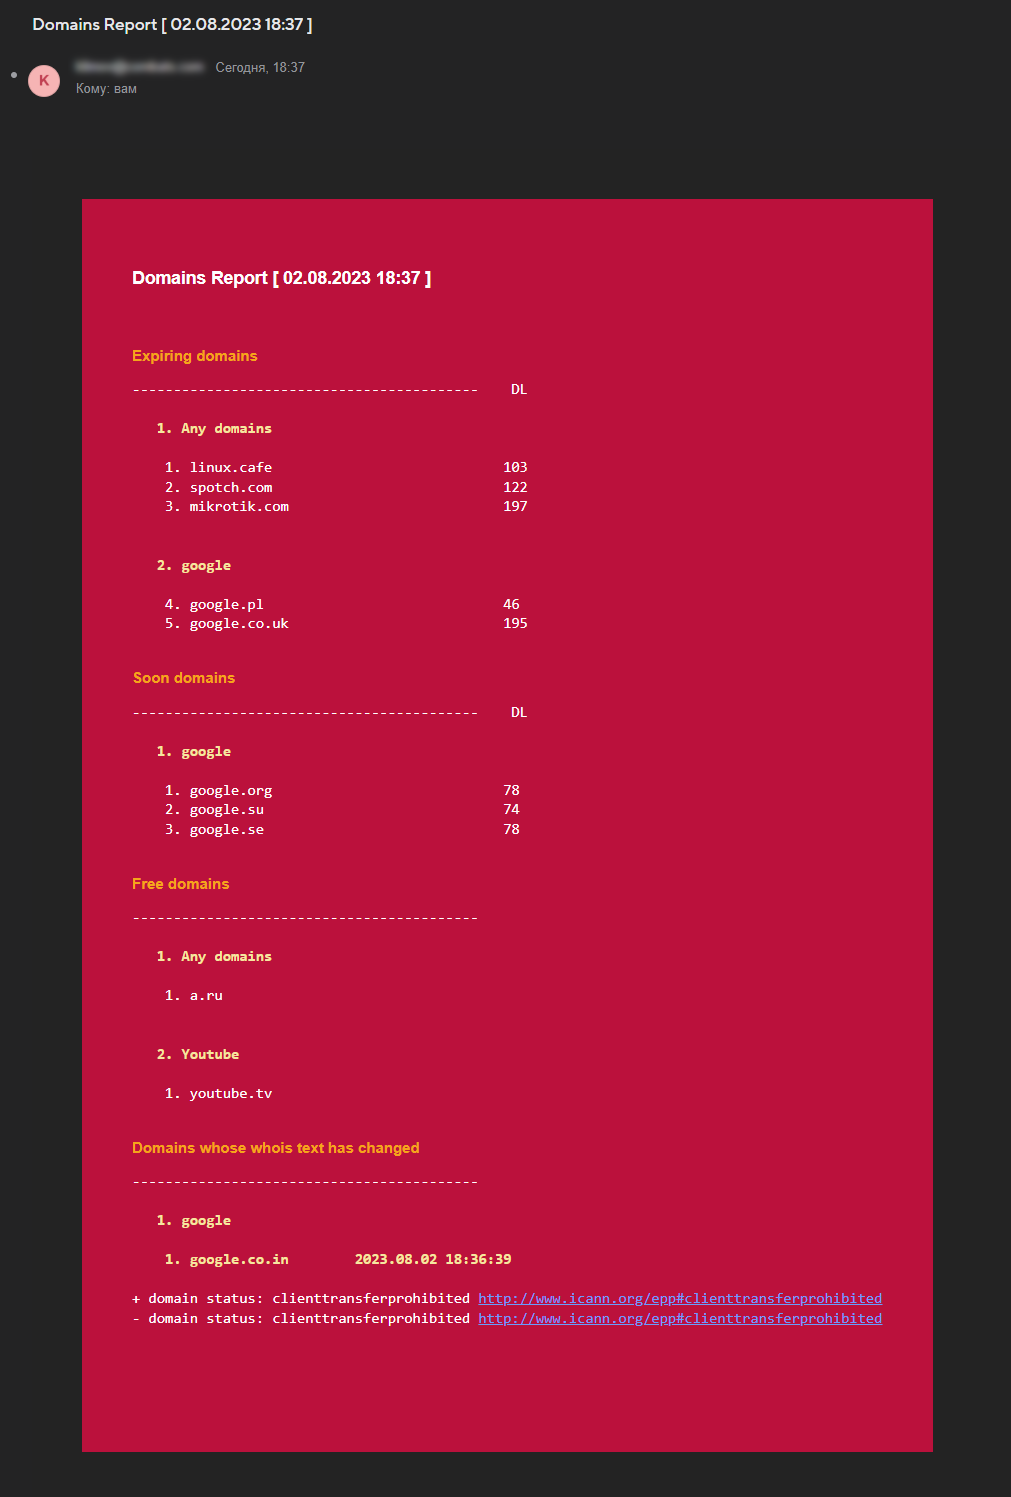
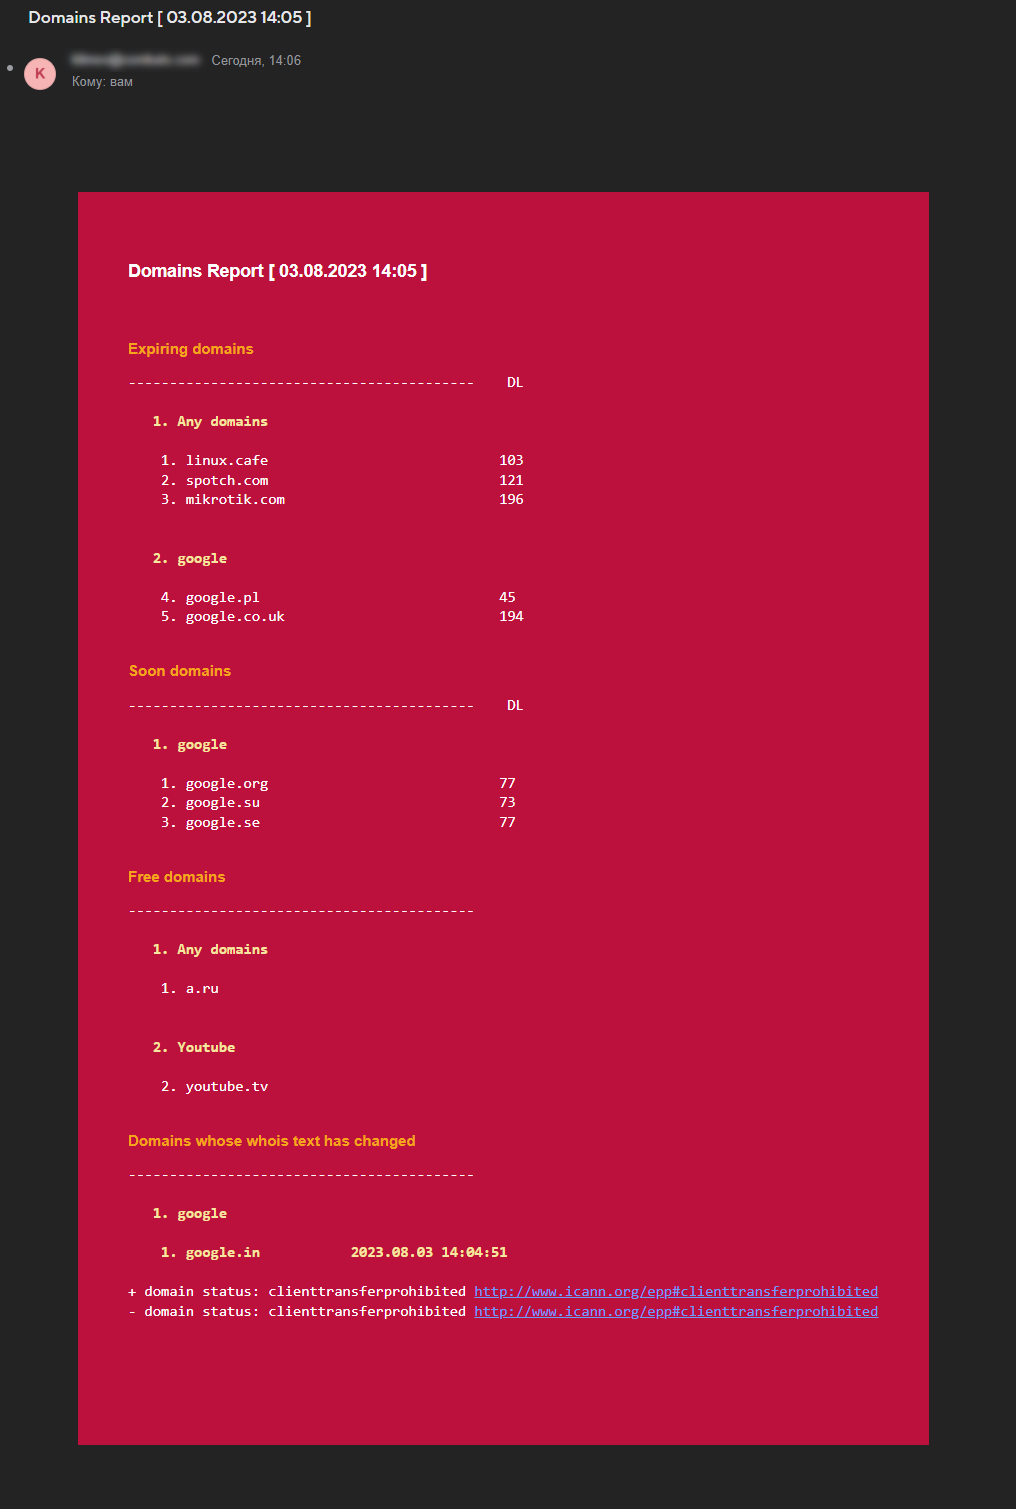
New version 0.2.19 (Fixed numbering in reports)

diff --git a/ddec.py b/ddec.py
@@ -14,9 +14,9 @@
 # Leif (https://github.com/akhepcat)
 # woodholly (https://github.com/woodholly)
 #
-# Current Version: 0.2.18
+# Current Version: 0.2.19
 # Creation Date: 2019-07-05
-# Date of last changes: 2023-08-02
+# Date of last changes: 2023-08-03
 #
 # License:
 #  This program is free software; you can redistribute it and/or modify
@@ -84,7 +84,7 @@ if sys.version_info < (3, 6):
     sys.exit(-1)
 
 # Global constants
-__version__: str = '0.2.18'
+__version__: str = '0.2.19'
 
 FR: str = Fore.RESET
 
@@ -804,13 +804,15 @@ def make_report_for_telegram() -> None:
         message += '\n\n<b>Domains that caused errors</b><pre>'
         message += f'\n{hl}\n'
         group_i: int = 0
+        i: int = 0
         for group, list_of_domains in ERRORS_DOMAIN.items():
             group_i += 1
             s_g_cr: str = '\n' if group_i > 1 else ''
             if group != '/':
                 str_domain_item: str = f'\n{s_g_cr}{group_i:>4}. {group}\n\n'
                 message += str_domain_item
-            for i, domain in enumerate(list_of_domains, 1):
+            for domain in list_of_domains:
+                i += 1
                 dn: str = f'{domain:<37}'
                 str_domain_item: str = f'{i:>5}. {dn}\n'
                 message += str_domain_item
@@ -821,13 +823,15 @@ def make_report_for_telegram() -> None:
         message += '\n\n<b>Exceeded the limit on whois</b><pre>'
         message += f'\n{hl}\n'
         group_i: int = 0
+        i: int = 0
         for group, list_of_domains in ERRORS2_DOMAIN.items():
             group_i += 1
             s_g_cr: str = '\n' if group_i > 1 else ''
             if group != '/':
                 str_domain_item: str = f'\n{s_g_cr}{group_i:>4}. {group}\n\n'
                 message += str_domain_item
-            for i, domain in enumerate(list_of_domains, 1):
+            for domain in list_of_domains:
+                i += 1
                 dn: str = f'{domain:<37}'
                 str_domain_item: str = f'{i:>5}. {dn}\n'
                 message += str_domain_item
@@ -838,13 +842,15 @@ def make_report_for_telegram() -> None:
         message += '\n\n<b>Free domains</b><pre>'
         message += f'\n{hl}\n'
         group_i: int = 0
+        i: int = 0
         for group, list_of_domains in FREE_DOMAINS.items():
             group_i += 1
             s_g_cr: str = '\n' if group_i > 1 else ''
             if group != '/':
                 str_domain_item: str = f'\n{s_g_cr}{group_i:>4}. {group}\n\n'
                 message += str_domain_item
-            for i, domain in enumerate(list_of_domains, 1):
+            for domain in list_of_domains:
+                i += 1
                 dn: str = f'{domain:<37}'
                 str_domain_item: str = f'{i:>5}. {dn}\n'
                 message += str_domain_item
@@ -1124,13 +1130,15 @@ def make_report_for_email() -> None:
             domain_list += '\nDomains that caused errors\n\n'
             domain_list += f'{hl}\n'
             group_i: int = 0
+            i: int = 0
             for group, list_of_domains in ERRORS_DOMAIN.items():
                 group_i += 1
                 s_g_cr: str = '\n' if group_i > 1 else ''
                 if group != '/':
                     str_domain_item: str = f'\n{s_g_cr}{group_i:>4}. {group}\n\n'
                     domain_list += str_domain_item
-                for i, domain in enumerate(list_of_domains, 1):
+                for domain in list_of_domains:
+                    i += 1
                     dn: str = f'{domain:<37}'
                     str_domain_item: str = f'{i:>5}. {dn}\n'
                     domain_list += str_domain_item
@@ -1140,13 +1148,15 @@ def make_report_for_email() -> None:
             domain_list += '\nExceeded the limit on whois\n\n'
             domain_list += f'{hl}\n'
             group_i: int = 0
+            i: int = 0
             for group, list_of_domains in ERRORS2_DOMAIN.items():
                 group_i += 1
                 s_g_cr: str = '\n' if group_i > 1 else ''
                 if group != '/':
                     str_domain_item: str = f'\n{s_g_cr}{group_i:>4}. {group}\n\n'
                     domain_list += str_domain_item
-                for i, domain in enumerate(list_of_domains, 1):
+                for domain in list_of_domains:
+                    i += 1
                     dn: str = f'{domain:<37}'
                     str_domain_item: str = f'{i:>5}. {dn}\n'
                     domain_list += str_domain_item
@@ -1156,13 +1166,15 @@ def make_report_for_email() -> None:
             domain_list += '\nFree domains\n\n'
             domain_list += f'{hl}\n'
             group_i: int = 0
+            i: int = 0
             for group, list_of_domains in FREE_DOMAINS.items():
                 group_i += 1
                 s_g_cr: str = '\n' if group_i > 1 else ''
                 if group != '/':
                     str_domain_item: str = f'\n{s_g_cr}{group_i:>4}. {group}\n\n'
                     domain_list += str_domain_item
-                for i, domain in enumerate(list_of_domains, 1):
+                for domain in list_of_domains:
+                    i += 1
                     dn: str = f'{domain:<37}'
                     str_domain_item: str = f'{i:>5}. {dn}\n'
                     domain_list += str_domain_item
@@ -1285,6 +1297,7 @@ def make_report_for_email() -> None:
             )
             domain_list += f'{hl}\n'
             group_i: int = 0
+            i: int = 0
             for group, list_of_domains in ERRORS_DOMAIN.items():
                 group_i += 1
                 s_g_cr: str = '\n' if group_i > 1 else ''
@@ -1296,7 +1309,8 @@ def make_report_for_email() -> None:
                         f'</b></span>\n\n'
                     )
                     domain_list += str_domain_item
-                for i, domain in enumerate(list_of_domains, 1):
+                for domain in list_of_domains:
+                    i += 1
                     dn: str = f'{domain:<37}'
                     str_domain_item: str = f'{i:>5}. {dn}\n'
                     domain_list += str_domain_item
@@ -1311,6 +1325,7 @@ def make_report_for_email() -> None:
             )
             domain_list += f'{hl}\n'
             group_i: int = 0
+            i: int = 0
             for group, list_of_domains in ERRORS2_DOMAIN.items():
                 group_i += 1
                 s_g_cr: str = '\n' if group_i > 1 else ''
@@ -1322,7 +1337,8 @@ def make_report_for_email() -> None:
                         f'</b></span>\n\n'
                     )
                     domain_list += str_domain_item
-                for i, domain in enumerate(list_of_domains, 1):
+                for domain in list_of_domains:
+                    i += 1
                     dn: str = f'{domain:<37}'
                     str_domain_item: str = f'{i:>5}. {dn}\n'
                     domain_list += str_domain_item
@@ -1337,6 +1353,7 @@ def make_report_for_email() -> None:
             )
             domain_list += f'{hl}\n'
             group_i: int = 0
+            i: int = 0
             for group, list_of_domains in FREE_DOMAINS.items():
                 group_i += 1
                 s_g_cr: str = '\n' if group_i > 1 else ''
@@ -1348,7 +1365,8 @@ def make_report_for_email() -> None:
                         f'</b></span>\n\n'
                     )
                     domain_list += str_domain_item
-                for i, domain in enumerate(list_of_domains, 1):
+                for domain in list_of_domains:
+                    i += 1
                     dn: str = f'{domain:<37}'
                     str_domain_item: str = f'{i:>5}. {dn}\n'
                     domain_list += str_domain_item
